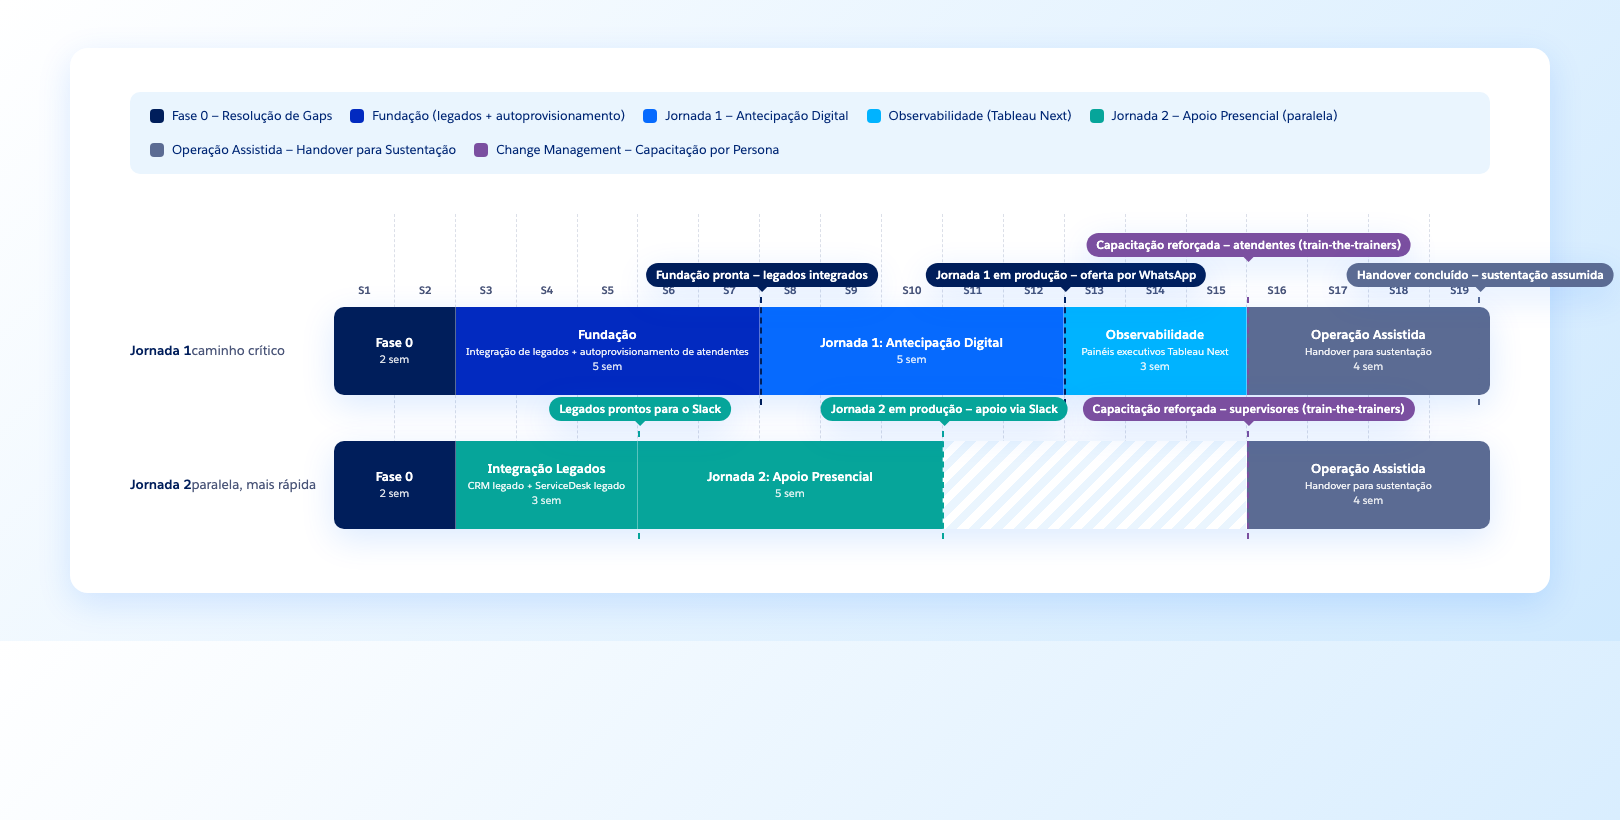
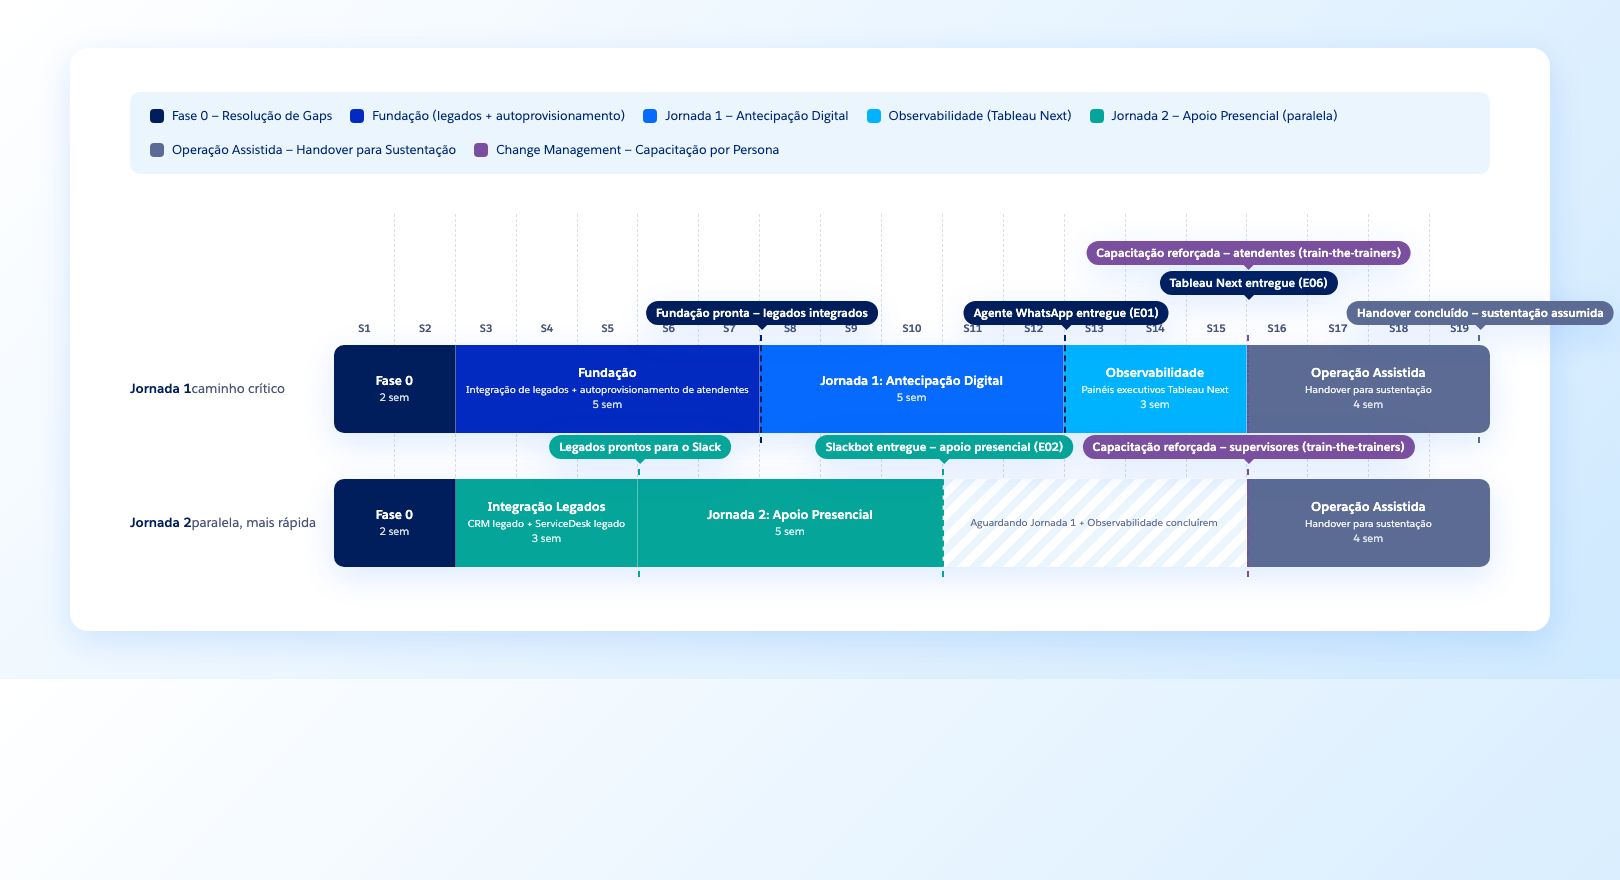
PRODESP-POUPATEMPO-BALCAO-V3: grill Fase 5 slice — extend R01/C01 to close G0801
Grilled the revise-touched slice (E08/E09, Fase 5, R02/R09/R11/R12 roster).
Extended R01 (PM) and C01 (client Product Owner/Decision-Maker) to
phases_active 0-5 — neither was covered by the new Fase 5 roster despite
being the logical roles to run and sign the sustentação handover. Closes
G0801 (named client-side handover owner) via the C01 extension. E08/E09
sizing reconfirmed as-is (user-endorsed in grill 2026-09-24), no resize.

diff --git a/Scopezilla/PRODESP-POUPATEMPO-BALCAO-V3/outputs/artifacts/timeline-proposta.html b/Scopezilla/PRODESP-POUPATEMPO-BALCAO-V3/outputs/artifacts/timeline-proposta.html
@@ -40,7 +40,7 @@
   .legend-item { display:flex; align-items:center; gap:8px; font-size: 12.5px; color: var(--sf-text); }
   .swatch { width: 14px; height: 14px; border-radius: 4px; flex: 0 0 auto; }
 
-  .chart { position: relative; padding-top: 70px; }
+  .chart { position: relative; padding-top: 108px; }
 
   .week-ruler { display:flex; align-items:stretch; gap: 14px; margin-bottom: 10px; }
   .ruler-spacer { flex: 0 0 190px; }
@@ -89,6 +89,7 @@
   .milestone--purple .milestone-flag::after { border-top-color: var(--ext-purple); }
 
   .milestone-flag--row2 { top: -64px; }
+  .milestone-flag--row3 { top: -94px; }
 </style>
 </head>
 <body>
@@ -157,10 +158,13 @@
             <div class="milestone-flag">Fundação pronta — legados integrados</div>
           </div>
           <div class="milestone milestone--navy" style="left:63.16%;">
-            <div class="milestone-flag">Jornada 1 em produção — oferta por WhatsApp</div>
+            <div class="milestone-flag">Agente WhatsApp entregue (E01)</div>
+          </div>
+          <div class="milestone milestone--navy" style="left:78.95%;">
+            <div class="milestone-flag milestone-flag--row2">Tableau Next entregue (E06)</div>
           </div>
           <div class="milestone milestone--purple" style="left:78.95%;">
-            <div class="milestone-flag milestone-flag--row2">Capacitação reforçada — atendentes (train-the-trainers)</div>
+            <div class="milestone-flag milestone-flag--row3">Capacitação reforçada — atendentes (train-the-trainers)</div>
           </div>
           <div class="milestone milestone--slate" style="left:99%;">
             <div class="milestone-flag">Handover concluído — sustentação assumida</div>
@@ -183,7 +187,9 @@
             <div class="bar" style="flex:0 0 26.32%; background:var(--ext-teal);">
               <div class="bar-name">Jornada 2: Apoio Presencial</div><div class="bar-dur">5 sem</div>
             </div>
-            <div class="bar spacer" style="flex:0 0 26.32%;"></div>
+            <div class="bar spacer" style="flex:0 0 26.32%;">
+              <div class="bar-name" style="color:var(--sf-text-weak); font-size:10px; font-weight:400; opacity:.85;">Aguardando Jornada 1 + Observabilidade concluírem</div>
+            </div>
             <div class="bar" style="flex:0 0 21.05%; background:var(--ext-slate);">
               <div class="bar-name">Operação Assistida</div>
               <div class="bar-detail">Handover para sustentação</div>
@@ -194,7 +200,7 @@
             <div class="milestone-flag">Legados prontos para o Slack</div>
           </div>
           <div class="milestone" style="left:52.63%;">
-            <div class="milestone-flag">Jornada 2 em produção — apoio via Slack</div>
+            <div class="milestone-flag">Slackbot entregue — apoio presencial (E02)</div>
           </div>
           <div class="milestone milestone--purple" style="left:78.95%;">
             <div class="milestone-flag">Capacitação reforçada — supervisores (train-the-trainers)</div>
